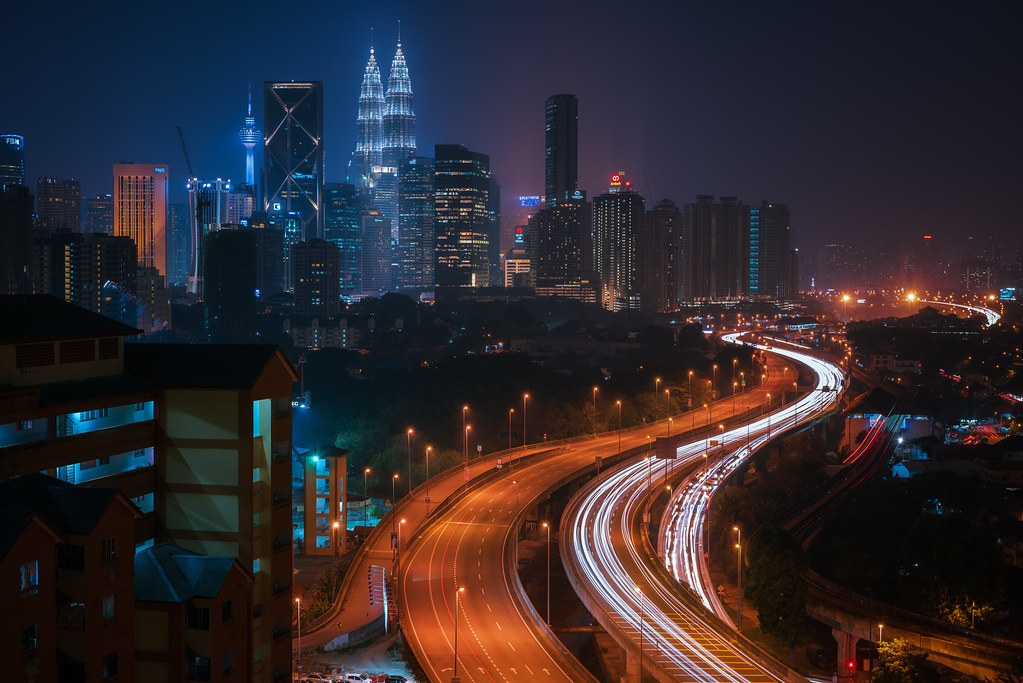
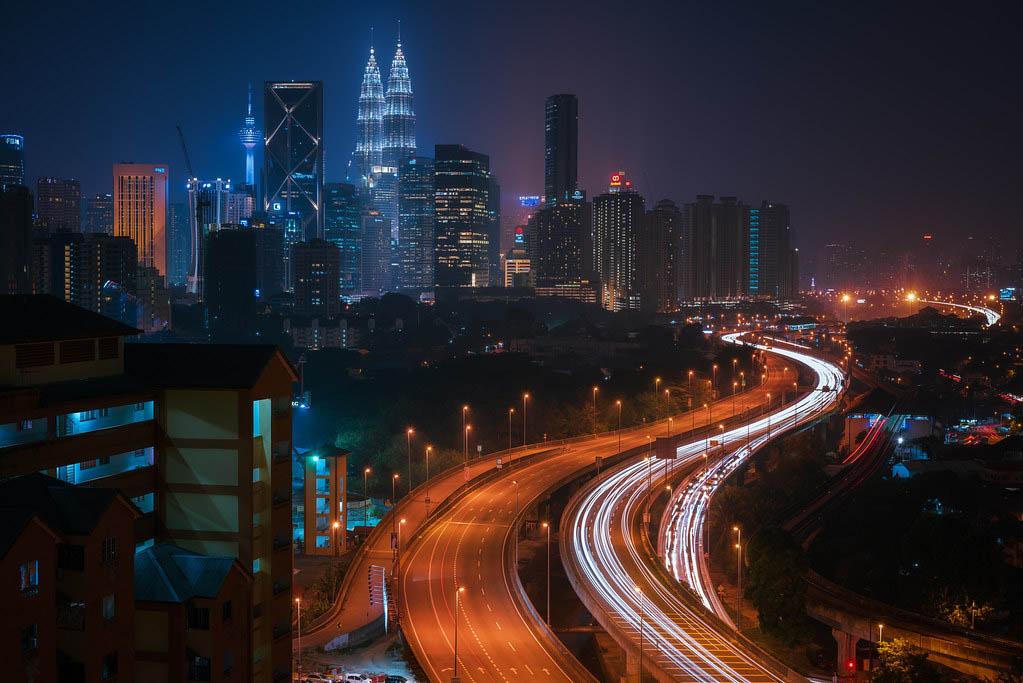
homepage image jpg

diff --git a/web/css/index.css b/web/css/index.css
@@ -13,7 +13,7 @@
     font-family: 'Sweet Sans Pro', sans-serif;
     height: 100vh;
     background:
-        linear-gradient(rgba(0, 0, 0, 0.5), rgba(2, 12, 22, 0.2)), url('../images/homepage/homepagehero.png');
+        linear-gradient(rgba(0, 0, 0, 0.5), rgba(2, 12, 22, 0.2)), url('../images/homepage/homepagehero.jpg');
     background-size: cover;
     display: flex;
     align-items: center;
